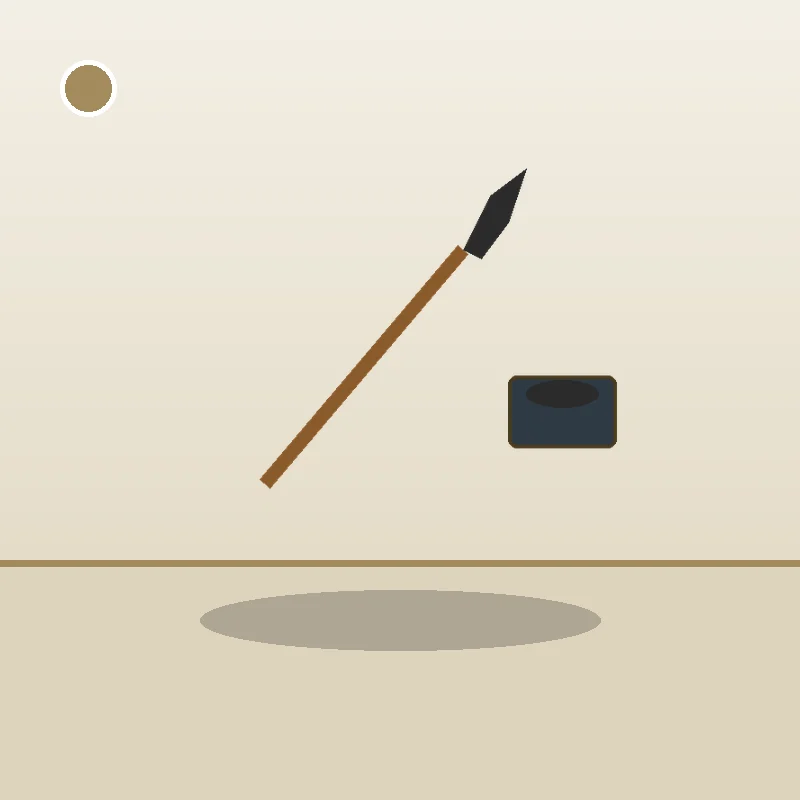
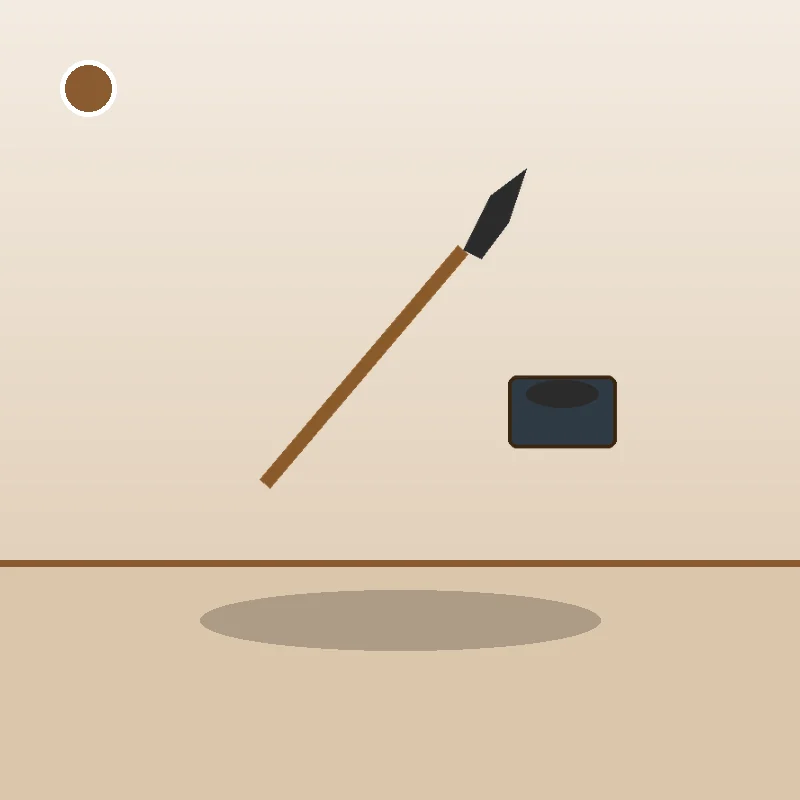
소재 분류 보정: 벼루·돌 묶음 추가, 차 잎·전통주 재료 분류 수정
- 한 글자 낱말은 낱말 끝으로 맞춰(찻잎·감잎·돌산갓 등) 면·모시로 잘못 분류되던 것을 바로잡음
- 벼루·돌(stone) 소재 무늬 추가, 생성 전에 이전 결과물을 비워 남는 파일이 없게 함
- V19 갱신: 소재 묶음 19종, 변형 대표 이미지 180개

Claude-Session: https://claude.ai/code/session_016KNfDSWncnnoH8k7bGBps1

Changed region(s): [[0.0, 0.6875, 1.0, 0.7188], [0.0625, 0.0625, 0.1562, 0.1562]]

diff --git a/scripts/demo-products/variants.py b/scripts/demo-products/variants.py
@@ -170,6 +170,24 @@ def rice(d, box, light, dark, seed_=30):
         d.ellipse((x, y, x + 6, y + 9), fill=rgb("#3a2c22"))
 
 
+def stone(d, box, light, dark, seed_=32):
+    """벼루·돌: 짙은 회색 돌결과 잔 흠."""
+    rnd = random.Random(seed_)
+    x0, y0, x1, y1 = box
+    d.rectangle(box, fill=rgb(light))
+    for _ in range(260):
+        x, y, r = rnd.randint(0, 800), rnd.randint(0, 800), rnd.randint(10, 70)
+        d.ellipse((x - r, y - r * 0.6, x + r, y + r * 0.6), fill=rgb(dark if rnd.random() < 0.55 else "#9aa0a6", rnd.randint(16, 46)))
+    for _ in range(18):
+        x, y = rnd.randint(0, 800), rnd.randint(0, 800)
+        pts = [(x, y)]
+        for _ in range(6):
+            x += rnd.randint(-40, 40)
+            y += rnd.randint(10, 50)
+            pts.append((x, y))
+        d.line(pts, fill=rgb(dark, 120), width=2)
+
+
 def porcelain(d, box, light, dark, seed_=31):
     """백자: 맑은 흰 유약과 청화 붓 무늬."""
     x0, y0, x1, y1 = box
@@ -205,6 +223,7 @@ CLASSES = {
     "hanji": ("한지", ("#faf6ea", "#e9e0c6", "#b9a46a", "#4d4220", "#f3ecd3"), lambda d, b, l, k: art.hanji(d, b, l, k)),
     "bamboo": ("대나무", ("#eff5ec", "#d5e3cf", "#5f8f4e", "#2c4a22", "#cfe6c3"), bamboo),
     "leather": ("가죽·모피", ("#f4ece2", "#dbc6ab", "#8a5a30", "#3a2410", "#a8784a"), leather),
+    "stone": ("벼루·돌", ("#f1f1f1", "#d3d6d9", "#4a4f55", "#23272b", "#6b7279"), stone),
     "wood": ("목재", ("#f4eee3", "#dccdb0", "#a8763e", "#5e3b1c", "#e8cfa5"), wood),
     "textile": ("면·모시·삼베", ("#f4f0e6", "#ded4bd", "#a38b5c", "#4a3b1f", "#e6dbbd"), lambda d, b, l, k: art.weave(d, b, l, k)),
     "paste": ("장·김치", ("#fbeee6", "#ecc9b4", "#b22a1e", "#5a1a10", "#f1d4b8"), paste),
@@ -214,16 +233,18 @@ CLASSES = {
 TOKEN_RULES = [  # (묶음, 포함하는 낱말) — 소재의 첫 낱말부터 이 순서로 맞춰 본다
     ("lacquer", ["옻칠"]), ("najeon", ["나전", "자개"]), ("enamel", ["칠보"]),
     ("brass", ["유기", "놋쇠", "황동", "신주", "두석", "금도금", "금속", "무쇠", "쇠", "철", "스테인리스"]),
-    ("silver", ["순은", "백동", "은사", "은침", "은상감"]), ("jade", ["옥", "비취", "산호", "호박", "자수정", "원석", "석"]),
+    ("silver", ["순은", "백동", "은사", "은침", "은상감"]), ("jade", ["옥", "비취", "산호", "호박", "자수정", "원석"]),
     ("celadon", ["청자", "분청", "자기"]), ("porcelain", ["백자", "도자기", "세라믹"]),
+    ("stone", ["남포석", "단령석", "오석", "돌", "석"]),
     ("onggi", ["옹기", "흙"]), ("silk", ["비단", "명주", "실크", "양단", "오간자", "금사", "솜", "금박"]),
     ("hanji", ["한지", "닥종이", "종이", "PP"]), ("bamboo", ["대나무", "오죽", "시누대", "물뿔", "대올", "대"]),
     ("leather", ["가죽", "우피", "털", "말총", "인모", "마이크로"]),
     ("wood", ["원목", "나무", "목재", "느티", "오동", "박달", "소나무", "물푸레", "캄포", "유자목", "은행", "먹감", "고급 원목"]),
     ("textile", ["모시", "삼베", "면", "리넨", "울", "모직", "양모", "마", "짚", "왕골", "실", "아크릴", "캔버스"]),
-    ("paste", ["간장", "고추장", "된장", "고춧가루", "액젓", "김치", "배추", "무", "열무", "갓", "쪽파", "오이", "부추", "마늘", "깻잎", "우엉", "도라지", "대두", "천일염", "감자", "단감", "매실", "굴비", "알타리", "식품"]),
+    ("tea", ["도라지", "우엉"]),
+    ("paste", ["간장", "고추장", "된장", "고춧가루", "액젓", "김치", "배추", "무", "열무", "갓", "쪽파", "오이", "부추", "마늘", "깻잎", "우엉", "도라지", "대두", "천일염", "감자", "단감", "매실", "굴비", "알타리", "식품", "무말랭이", "돌산갓"]),
     ("tea", ["차", "녹차", "잎", "국화", "생강나무꽃", "산수유", "황차", "수국"]),
-    ("rice", ["찹쌀", "쌀", "조청", "엿", "튀밥", "백미", "밀가루", "메밀", "수수", "견과", "아몬드", "솔잎", "꿀", "누룩", "흑임자", "소곡주", "한과", "조"]),
+    ("rice", ["찹쌀", "쌀", "조청", "엿", "튀밥", "백미", "밀가루", "메밀", "수수", "견과", "아몬드", "솔잎", "꿀", "누룩", "흑임자", "소곡주", "한과", "조", "생강", "계피", "배"]),
 ]
 OVERRIDE = [("lacquer", "옻칠"), ("najeon", "나전"), ("najeon", "자개"), ("enamel", "칠보")]
 
@@ -234,7 +255,7 @@ def classify(material):
             return name
     for token in material.split():
         for name, words in TOKEN_RULES:
-            if any((token == w) if len(w) == 1 else (w in token) for w in words):
+            if any(token.endswith(w) if len(w) == 1 else (w in token) for w in words):
                 return name
     return "textile"
 
@@ -317,6 +338,9 @@ def main():
     products = json.load(open(os.path.join(os.path.dirname(__file__), "seed_products.json"), encoding="utf-8"))
     for p in products:
         p["cls"] = classify(p["material"])
+    import shutil
+    for sub in ("variants", "materials", "flagship"):
+        shutil.rmtree(os.path.join(DOCS, sub), ignore_errors=True)
     # 1) 소재 확대 이미지
     used = sorted({p["cls"] for p in products})
     macros = {cls: macro(cls) for cls in used}

diff --git a/docs/demo-products/variants.md b/docs/demo-products/variants.md
@@ -7,24 +7,25 @@
 
 | 묶음 | 이름 | 이미지 | 상품 수 |
 |---|---|---|---|
-| wood | 목재 | [보기](https://raw.githubusercontent.com/Jangingmall/backend/develop/docs/demo-products/materials/wood.webp) | 116 |
-| silk | 비단·명주 | [보기](https://raw.githubusercontent.com/Jangingmall/backend/develop/docs/demo-products/materials/silk.webp) | 108 |
-| textile | 면·모시·삼베 | [보기](https://raw.githubusercontent.com/Jangingmall/backend/develop/docs/demo-products/materials/textile.webp) | 98 |
+| wood | 목재 | [보기](https://raw.githubusercontent.com/Jangingmall/backend/develop/docs/demo-products/materials/wood.webp) | 115 |
+| silk | 비단·명주 | [보기](https://raw.githubusercontent.com/Jangingmall/backend/develop/docs/demo-products/materials/silk.webp) | 107 |
+| textile | 면·모시·삼베 | [보기](https://raw.githubusercontent.com/Jangingmall/backend/develop/docs/demo-products/materials/textile.webp) | 83 |
 | brass | 방짜유기·황동 | [보기](https://raw.githubusercontent.com/Jangingmall/backend/develop/docs/demo-products/materials/brass.webp) | 63 |
-| rice | 떡·한과·곡물 | [보기](https://raw.githubusercontent.com/Jangingmall/backend/develop/docs/demo-products/materials/rice.webp) | 40 |
+| rice | 떡·한과·곡물 | [보기](https://raw.githubusercontent.com/Jangingmall/backend/develop/docs/demo-products/materials/rice.webp) | 45 |
 | lacquer | 옻칠 | [보기](https://raw.githubusercontent.com/Jangingmall/backend/develop/docs/demo-products/materials/lacquer.webp) | 39 |
 | hanji | 한지 | [보기](https://raw.githubusercontent.com/Jangingmall/backend/develop/docs/demo-products/materials/hanji.webp) | 39 |
-| celadon | 청자·분청 | [보기](https://raw.githubusercontent.com/Jangingmall/backend/develop/docs/demo-products/materials/celadon.webp) | 32 |
-| paste | 장·김치 | [보기](https://raw.githubusercontent.com/Jangingmall/backend/develop/docs/demo-products/materials/paste.webp) | 31 |
 | najeon | 나전·자개 | [보기](https://raw.githubusercontent.com/Jangingmall/backend/develop/docs/demo-products/materials/najeon.webp) | 30 |
+| paste | 장·김치 | [보기](https://raw.githubusercontent.com/Jangingmall/backend/develop/docs/demo-products/materials/paste.webp) | 29 |
+| celadon | 청자·분청 | [보기](https://raw.githubusercontent.com/Jangingmall/backend/develop/docs/demo-products/materials/celadon.webp) | 28 |
 | onggi | 옹기·흙 | [보기](https://raw.githubusercontent.com/Jangingmall/backend/develop/docs/demo-products/materials/onggi.webp) | 28 |
-| porcelain | 백자·도자기 | [보기](https://raw.githubusercontent.com/Jangingmall/backend/develop/docs/demo-products/materials/porcelain.webp) | 20 |
-| silver | 은·백동 | [보기](https://raw.githubusercontent.com/Jangingmall/backend/develop/docs/demo-products/materials/silver.webp) | 20 |
+| tea | 차 | [보기](https://raw.githubusercontent.com/Jangingmall/backend/develop/docs/demo-products/materials/tea.webp) | 24 |
+| porcelain | 백자·도자기 | [보기](https://raw.githubusercontent.com/Jangingmall/backend/develop/docs/demo-products/materials/porcelain.webp) | 19 |
+| jade | 옥·보석 | [보기](https://raw.githubusercontent.com/Jangingmall/backend/develop/docs/demo-products/materials/jade.webp) | 18 |
+| silver | 은·백동 | [보기](https://raw.githubusercontent.com/Jangingmall/backend/develop/docs/demo-products/materials/silver.webp) | 17 |
 | bamboo | 대나무 | [보기](https://raw.githubusercontent.com/Jangingmall/backend/develop/docs/demo-products/materials/bamboo.webp) | 16 |
-| tea | 차 | [보기](https://raw.githubusercontent.com/Jangingmall/backend/develop/docs/demo-products/materials/tea.webp) | 15 |
-| jade | 옥·보석 | [보기](https://raw.githubusercontent.com/Jangingmall/backend/develop/docs/demo-products/materials/jade.webp) | 12 |
-| leather | 가죽·모피 | [보기](https://raw.githubusercontent.com/Jangingmall/backend/develop/docs/demo-products/materials/leather.webp) | 12 |
+| leather | 가죽·모피 | [보기](https://raw.githubusercontent.com/Jangingmall/backend/develop/docs/demo-products/materials/leather.webp) | 15 |
 | enamel | 칠보 | [보기](https://raw.githubusercontent.com/Jangingmall/backend/develop/docs/demo-products/materials/enamel.webp) | 10 |
+| stone | 벼루·돌 | [보기](https://raw.githubusercontent.com/Jangingmall/backend/develop/docs/demo-products/materials/stone.webp) | 4 |
 
 ## 대표 상품 56개 (소분류마다 먼저 등록된 상품, 상품명 색 반영)
 
@@ -58,7 +59,7 @@
 | f26 | 구혜자 무형유산 당의 한복 맞춤 세트 | 한복·생활한복 | 비단·명주 | - | [보기](https://raw.githubusercontent.com/Jangingmall/backend/develop/docs/demo-products/flagship/f26.webp) | [보기](https://raw.githubusercontent.com/Jangingmall/backend/develop/docs/demo-products/materials/silk.webp) | [보기](https://raw.githubusercontent.com/Jangingmall/backend/develop/docs/demo-products/flagship/f26-2.webp) |
 | f27 | 정춘모 무형유산 흑대립 정통 조선 갓 | 갓·모자 | 가죽·모피 | 검정 | [보기](https://raw.githubusercontent.com/Jangingmall/backend/develop/docs/demo-products/flagship/f27.webp) | [보기](https://raw.githubusercontent.com/Jangingmall/backend/develop/docs/demo-products/materials/leather.webp) | [보기](https://raw.githubusercontent.com/Jangingmall/backend/develop/docs/demo-products/flagship/f27-2.webp) |
 | f28 | 정춘모 무형유산 말총 망건 | 망건·머리장식 | 가죽·모피 | - | [보기](https://raw.githubusercontent.com/Jangingmall/backend/develop/docs/demo-products/flagship/f28.webp) | [보기](https://raw.githubusercontent.com/Jangingmall/backend/develop/docs/demo-products/materials/leather.webp) | [보기](https://raw.githubusercontent.com/Jangingmall/backend/develop/docs/demo-products/flagship/f28-2.webp) |
-| f29 | 성심필방 전통 수제 겸호필 붓 세트 (3종) | 붓·먹·벼루 | 면·모시·삼베 | - | [보기](https://raw.githubusercontent.com/Jangingmall/backend/develop/docs/demo-products/flagship/f29.webp) | [보기](https://raw.githubusercontent.com/Jangingmall/backend/develop/docs/demo-products/materials/textile.webp) | [보기](https://raw.githubusercontent.com/Jangingmall/backend/develop/docs/demo-products/flagship/f29-2.webp) |
+| f29 | 성심필방 전통 수제 겸호필 붓 세트 (3종) | 붓·먹·벼루 | 가죽·모피 | - | [보기](https://raw.githubusercontent.com/Jangingmall/backend/develop/docs/demo-products/flagship/f29.webp) | [보기](https://raw.githubusercontent.com/Jangingmall/backend/develop/docs/demo-products/materials/leather.webp) | [보기](https://raw.githubusercontent.com/Jangingmall/backend/develop/docs/demo-products/flagship/f29-2.webp) |
 | f30 | 윤규상 무형유산 수제 닥종이 한지 편지지 세트 | 한지·편지지 | 한지 | - | [보기](https://raw.githubusercontent.com/Jangingmall/backend/develop/docs/demo-products/flagship/f30.webp) | [보기](https://raw.githubusercontent.com/Jangingmall/backend/develop/docs/demo-products/materials/hanji.webp) | [보기](https://raw.githubusercontent.com/Jangingmall/backend/develop/docs/demo-products/flagship/f30-2.webp) |
 | f31 | 숍오브코리아 나전칠기 나비 자개 수제 볼펜 | 볼펜·만년필 | 나전·자개 | - | [보기](https://raw.githubusercontent.com/Jangingmall/backend/develop/docs/demo-products/flagship/f31.webp) | [보기](https://raw.githubusercontent.com/Jangingmall/backend/develop/docs/demo-products/materials/najeon.webp) | [보기](https://raw.githubusercontent.com/Jangingmall/backend/develop/docs/demo-products/flagship/f31-2.webp) |
 | f32 | 숍오브코리아 나전칠기 적매화 자개 명함집 | 명함집 | 나전·자개 | - | [보기](https://raw.githubusercontent.com/Jangingmall/backend/develop/docs/demo-products/flagship/f32.webp) | [보기](https://raw.githubusercontent.com/Jangingmall/backend/develop/docs/demo-products/materials/najeon.webp) | [보기](https://raw.githubusercontent.com/Jangingmall/backend/develop/docs/demo-products/flagship/f32-2.webp) |
@@ -87,4 +88,4 @@
 | f55 | 담양한과 3단 예향 명절 한과선물세트 | 떡·한과 | 떡·한과·곡물 | - | [보기](https://raw.githubusercontent.com/Jangingmall/backend/develop/docs/demo-products/flagship/f55.webp) | [보기](https://raw.githubusercontent.com/Jangingmall/backend/develop/docs/demo-products/materials/rice.webp) | [보기](https://raw.githubusercontent.com/Jangingmall/backend/develop/docs/demo-products/flagship/f55-2.webp) |
 | f56 | 담양한과 궁중 명가 한과 육포 종합 선물세트 | 궁중음식·선물세트 | 떡·한과·곡물 | - | [보기](https://raw.githubusercontent.com/Jangingmall/backend/develop/docs/demo-products/flagship/f56.webp) | [보기](https://raw.githubusercontent.com/Jangingmall/backend/develop/docs/demo-products/materials/rice.webp) | [보기](https://raw.githubusercontent.com/Jangingmall/backend/develop/docs/demo-products/flagship/f56-2.webp) |
 
-변형 대표 이미지 184개는 `docs/demo-products/variants/s<소분류>-<묶음>.webp` 이다.
+변형 대표 이미지 180개는 `docs/demo-products/variants/s<소분류>-<묶음>.webp` 이다.
